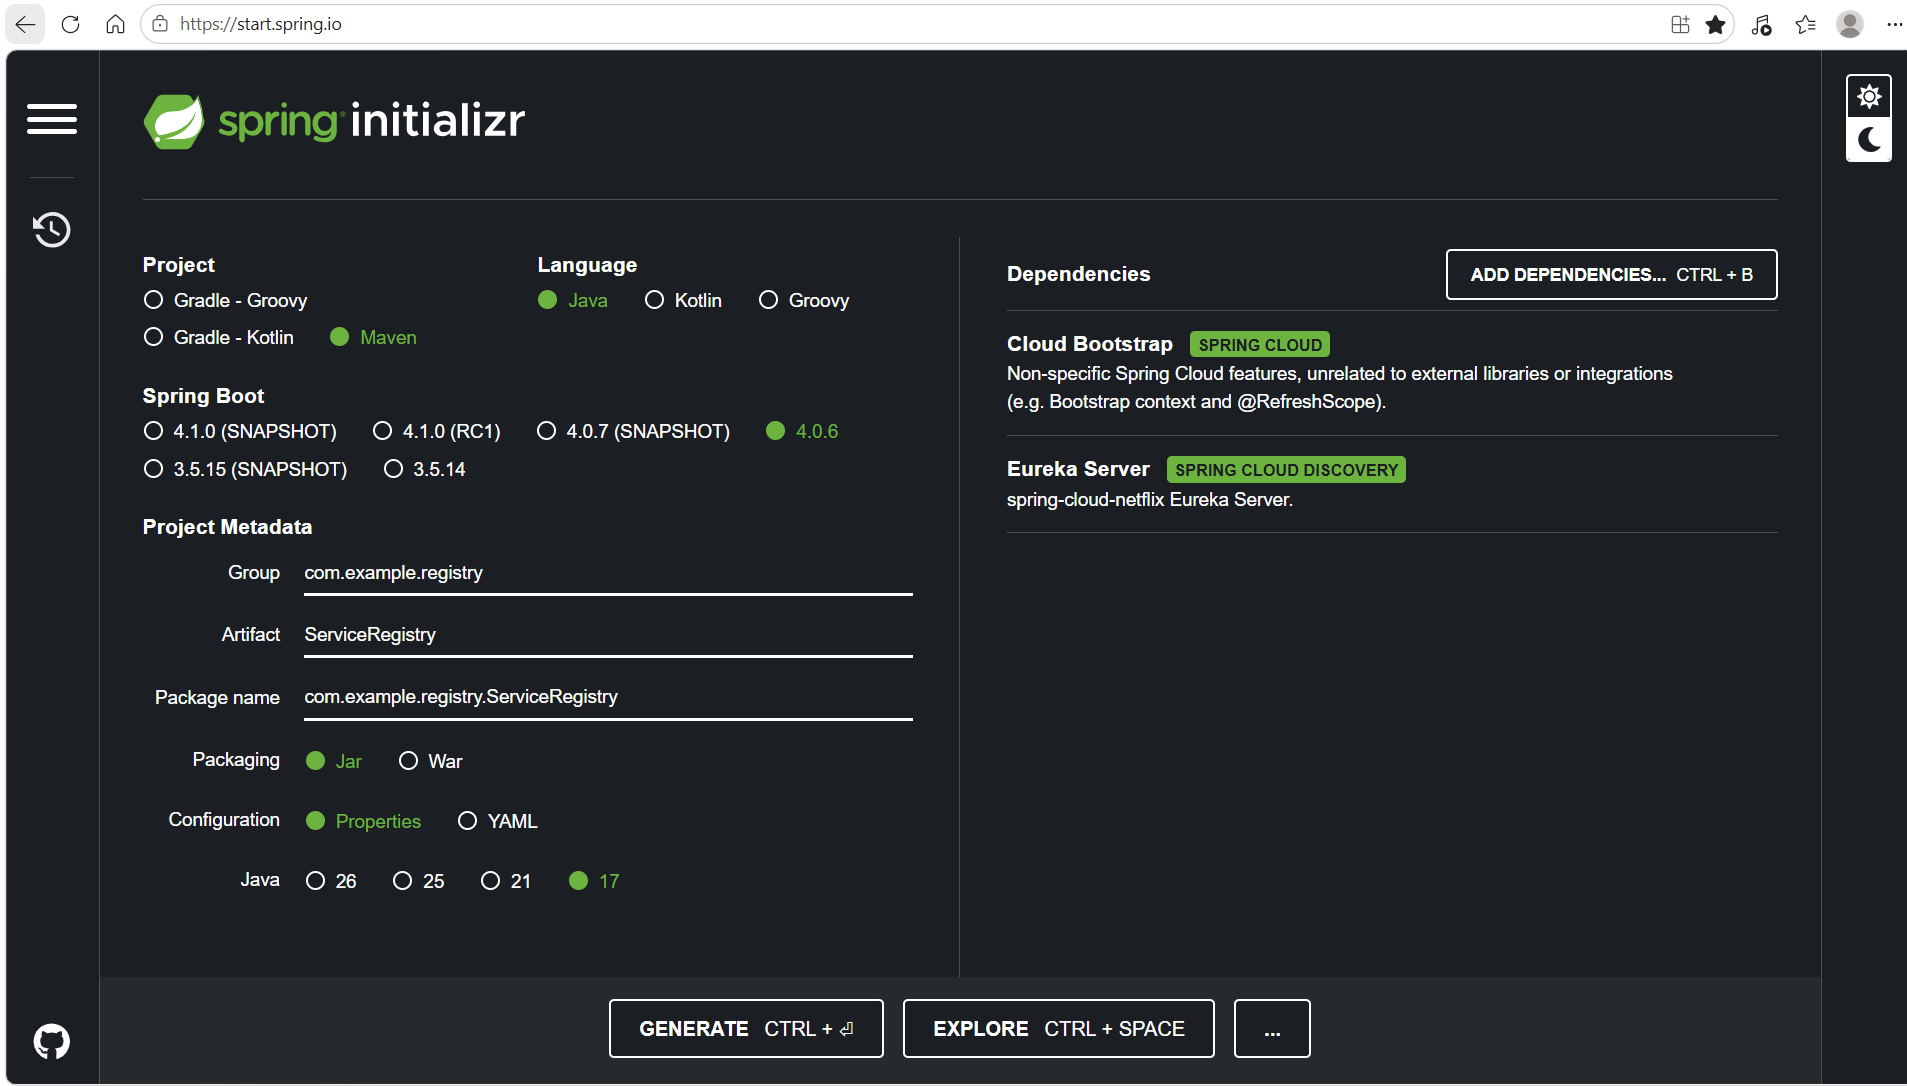
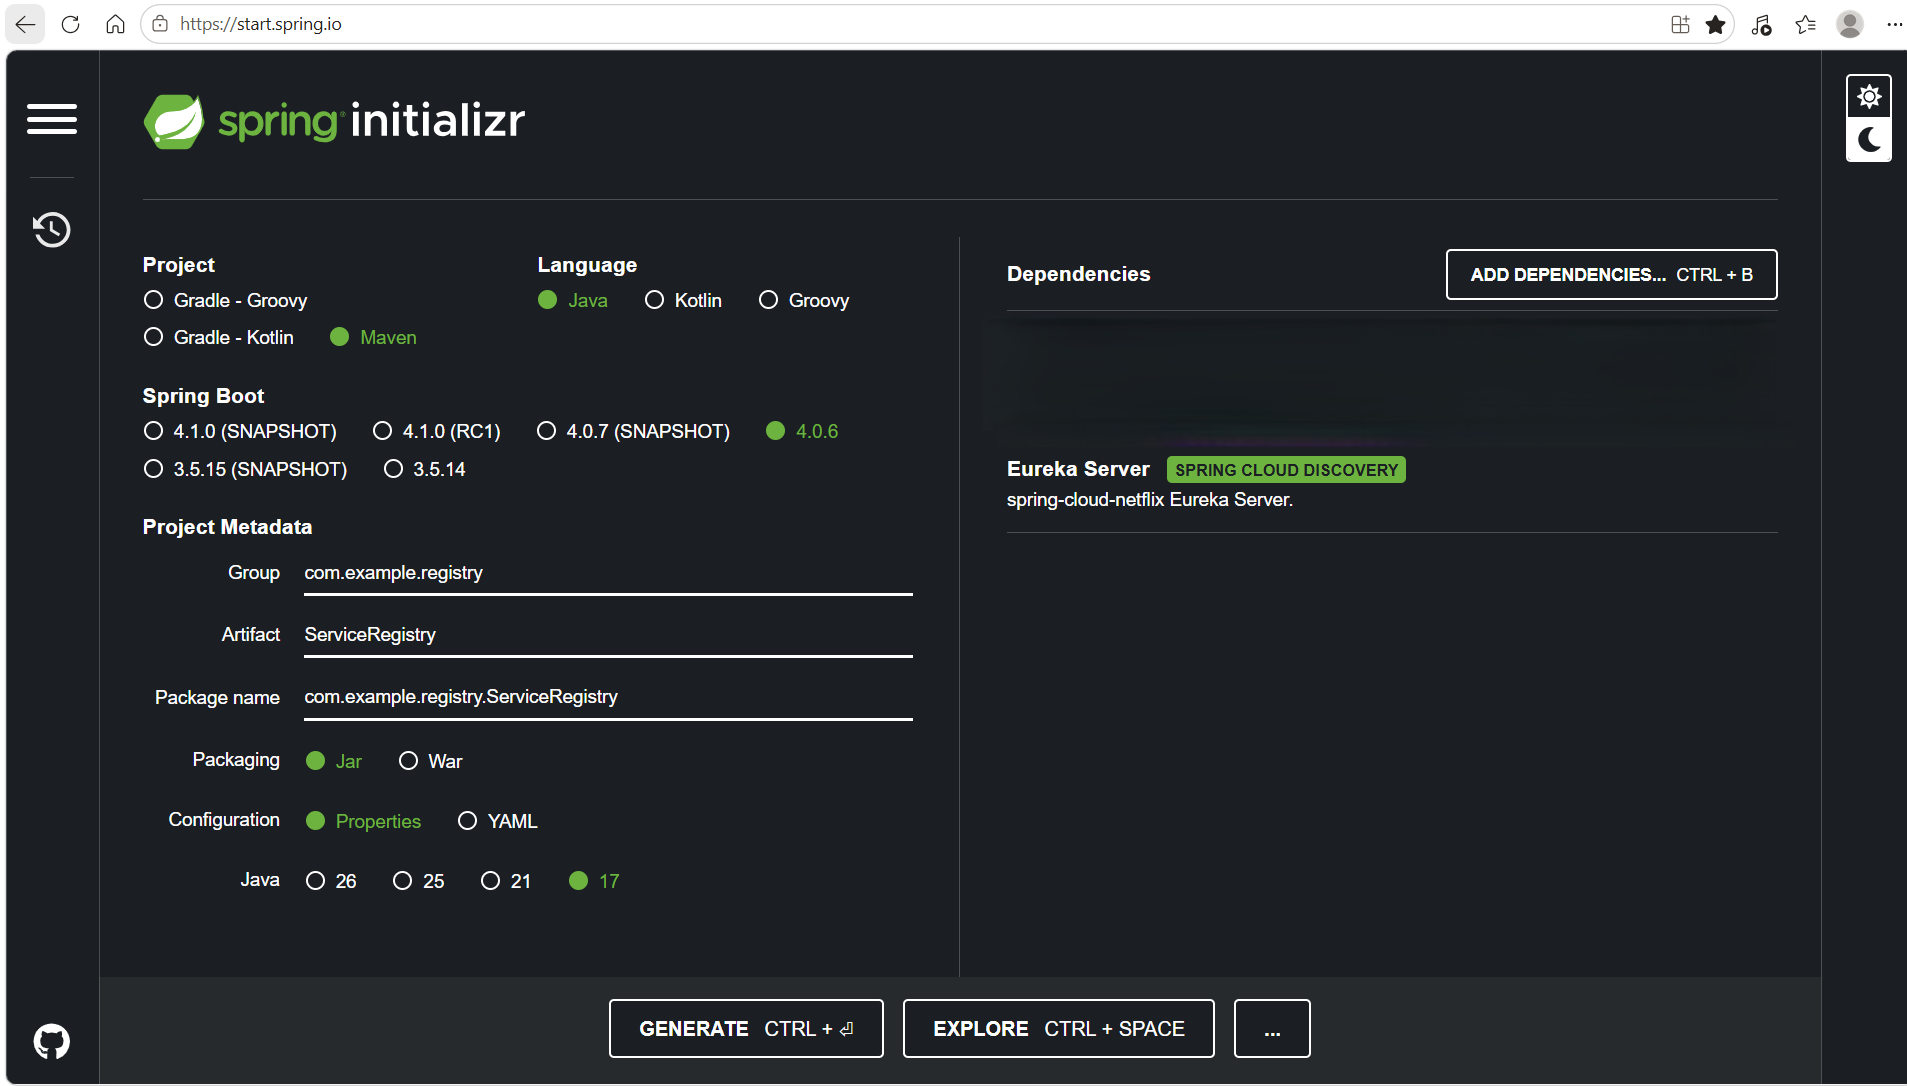
configured for user service to registered to eureka client

Changed region(s): [[0.526, 0.3039, 0.8663, 0.395]]

diff --git a/UserService/src/main/java/com/example/user/service/UserService/UserServiceApplication.java b/UserService/src/main/java/com/example/user/service/UserService/UserServiceApplication.java
@@ -2,8 +2,10 @@ package com.example.user.service.UserService;
 
 import org.springframework.boot.SpringApplication;
 import org.springframework.boot.autoconfigure.SpringBootApplication;
+import org.springframework.cloud.client.discovery.EnableDiscoveryClient;
 
 @SpringBootApplication
+@EnableDiscoveryClient
 public class UserServiceApplication {
 
 	public static void main(String[] args) {
